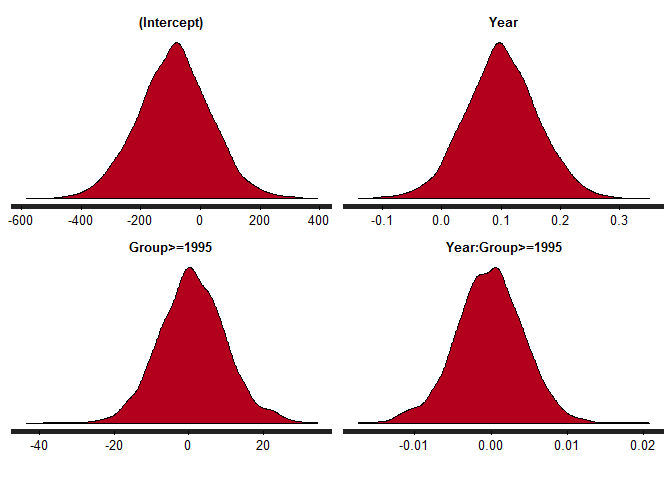
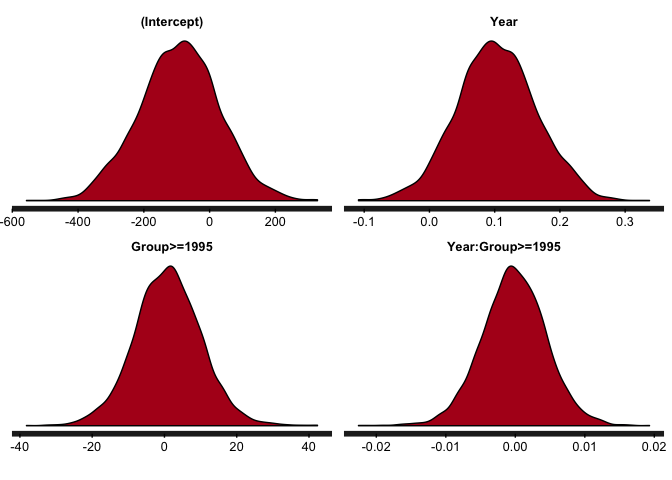
combined plot; tested priors on the BF calcs.

diff --git a/analysis.md b/analysis.md
@@ -1,7 +1,7 @@
 Technical comment on Evidence for a limit to human lifespan
 ================
 Philipp Berens and Tom Wallis
-October 9, 2016
+October 11, 2016
 
 Dong et al. claim to present statistical evidence in favor of an absolute limit to the human lifespan. Here we present a reanalysis of a central figure in their paper showing that in fact the data is uninformative with regards to the question whether there is a limit to human lifespan or not.
 
@@ -96,6 +96,41 @@ summary.lm(mdl2)
 
 In this case, MRAD increases slightly by 0.12 years per year.
 
+Showing the models side-by-side
+-------------------------------
+
+``` r
+# prepare data:
+tmp1 <- tbl
+tmp2 <- tbl
+tmp1$model <- "Trend break"
+tmp1$yhat <- predict(mdl1)
+tmp2$model <- "Linear"
+tmp2$yhat <- predict(mdl2)
+
+combined_data <- rbind(tmp1, tmp2)
+
+plt <- ggplot(combined_data, aes(x = Year, y = Age, colour = Group)) + 
+  facet_grid(~ model) + 
+  geom_point() +
+  geom_line(aes(y = yhat))
+
+# appearance:
+plt <- plt + 
+  scale_y_continuous(name = "Yearly maximum reported age at death (years)",
+                     breaks = seq(110, 126, by = 2)) + 
+  ylab("Yearly maximum reported age at death (years)") +
+  theme_minimal(base_size = 8) + 
+  theme(panel.grid.major = element_line(colour = "grey90", size = 0.6)) + 
+  theme(panel.margin = unit(2, "lines")) + 
+  scale_color_manual(values = c("#4A87CB", "#E76826"), name = "") + 
+  theme(legend.position = "bottom")
+
+plt
+```
+
+![](analysis_files/figure-markdown_github/combined_plot-1.png)
+
 Model comparison
 ----------------
 
@@ -174,7 +209,7 @@ bf1 / bf2
 
     ## Bayes factor analysis
     ## --------------
-    ## [1] Year * Group : 1.263247 ±0.52%
+    ## [1] Year * Group : 1.248852 ±0.56%
     ## 
     ## Against denominator:
     ##   Age ~ Year 
@@ -182,6 +217,8 @@ bf1 / bf2
     ## Bayes factor type: BFlinearModel, JZS
 
 Under these default priors (assuming for example that both models are equally likely *a priori*), the models receive approximately equal support from the data (the Dong et al model is favoured with an odds ratio of 1.24-to-1).
+
+Changing the priors of BayesFactor from "medium" to "ultrawide" on the standardised effect size scale did not appreciably affect these conclusions; with ultrawide effect-size priors the simpler model is now preferred with odds of 1.09-to-1.
 
 ### Bayesian estimation of model parameters
 
@@ -192,6 +229,7 @@ We fit the models using the package `rstanarm`, which allows relatively straight
 ``` r
 bmdl <- stan_glm(Age~Year*Group, tbl, 
                  prior = student_t(5, 0, 2.5), 
+                 prior_intercept = student_t(5, 0, 50),
                  family = gaussian(), 
                  adapt_delta = 0.99)
 ```
@@ -211,9 +249,9 @@ bmdl <- stan_glm(Age~Year*Group, tbl,
     ## Chain 1, Iteration: 1600 / 2000 [ 80%]  (Sampling)
     ## Chain 1, Iteration: 1800 / 2000 [ 90%]  (Sampling)
     ## Chain 1, Iteration: 2000 / 2000 [100%]  (Sampling)
-    ##  Elapsed Time: 0.852846 seconds (Warm-up)
-    ##                0.913335 seconds (Sampling)
-    ##                1.76618 seconds (Total)
+    ##  Elapsed Time: 0.90537 seconds (Warm-up)
+    ##                0.912955 seconds (Sampling)
+    ##                1.81832 seconds (Total)
     ## 
     ## 
     ## SAMPLING FOR MODEL 'continuous' NOW (CHAIN 2).
@@ -230,9 +268,9 @@ bmdl <- stan_glm(Age~Year*Group, tbl,
     ## Chain 2, Iteration: 1600 / 2000 [ 80%]  (Sampling)
     ## Chain 2, Iteration: 1800 / 2000 [ 90%]  (Sampling)
     ## Chain 2, Iteration: 2000 / 2000 [100%]  (Sampling)
-    ##  Elapsed Time: 1.01437 seconds (Warm-up)
-    ##                1.08593 seconds (Sampling)
-    ##                2.1003 seconds (Total)
+    ##  Elapsed Time: 1.114 seconds (Warm-up)
+    ##                1.09402 seconds (Sampling)
+    ##                2.20802 seconds (Total)
     ## 
     ## 
     ## SAMPLING FOR MODEL 'continuous' NOW (CHAIN 3).
@@ -249,9 +287,9 @@ bmdl <- stan_glm(Age~Year*Group, tbl,
     ## Chain 3, Iteration: 1600 / 2000 [ 80%]  (Sampling)
     ## Chain 3, Iteration: 1800 / 2000 [ 90%]  (Sampling)
     ## Chain 3, Iteration: 2000 / 2000 [100%]  (Sampling)
-    ##  Elapsed Time: 1.00501 seconds (Warm-up)
-    ##                0.979985 seconds (Sampling)
-    ##                1.98499 seconds (Total)
+    ##  Elapsed Time: 0.895852 seconds (Warm-up)
+    ##                0.843992 seconds (Sampling)
+    ##                1.73984 seconds (Total)
     ## 
     ## 
     ## SAMPLING FOR MODEL 'continuous' NOW (CHAIN 4).
@@ -268,9 +306,9 @@ bmdl <- stan_glm(Age~Year*Group, tbl,
     ## Chain 4, Iteration: 1600 / 2000 [ 80%]  (Sampling)
     ## Chain 4, Iteration: 1800 / 2000 [ 90%]  (Sampling)
     ## Chain 4, Iteration: 2000 / 2000 [100%]  (Sampling)
-    ##  Elapsed Time: 1.03229 seconds (Warm-up)
-    ##                0.903942 seconds (Sampling)
-    ##                1.93624 seconds (Total)
+    ##  Elapsed Time: 0.949839 seconds (Warm-up)
+    ##                0.918062 seconds (Sampling)
+    ##                1.8679 seconds (Total)
 
 We can summarize the fitted model and plot the posterior density over the parameters:
 
@@ -278,20 +316,21 @@ We can summarize the fitted model and plot the posterior density over the parame
 plot(bmdl,'dens')
 ```
 
-![](analysis_files/figure-markdown_github/unnamed-chunk-8-1.png)
+![](analysis_files/figure-markdown_github/unnamed-chunk-7-1.png)
 
 ``` r
 bmdl
 ```
 
     ## stan_glm(formula = Age ~ Year * Group, family = gaussian(), data = tbl, 
-    ##     prior = student_t(5, 0, 2.5), adapt_delta = 0.99)
+    ##     prior = student_t(5, 0, 2.5), prior_intercept = student_t(5, 
+    ##         0, 50), adapt_delta = 0.99)
     ## 
     ## Estimates:
     ##                  Median MAD_SD
-    ## (Intercept)      -91.5  124.3 
+    ## (Intercept)      -89.7  120.0 
     ## Year               0.1    0.1 
-    ## Group>=1995        0.8    8.7 
+    ## Group>=1995        0.9    8.9 
     ## Year:Group>=1995   0.0    0.0 
     ## sigma              2.2    0.3 
     ## 
@@ -302,7 +341,7 @@ bmdl
     ## 
     ## Observations: 33  Number of unconstrained parameters: 5
 
-Comparing the fitted model to the frequentist models above shows that the posterior median of the linear effect of Year (0.103) is similar to the estimated value above (0.153), but shrunken towards zero by the prior. The posterior density on the interaction term is centered around zero during inference, arguing that there is little evidence of a different slope after 1995. There is a small effect of the interaction term on the y-intercept, increasing the estimated y-intercept by 900. This is likely an artefact of the model parametrization.
+Comparing the fitted model to the frequentist models above shows that the posterior median of the linear effect of Year (0.102) is similar to the estimated value above (0.153), but shrunken towards zero by the prior. The posterior density on the interaction term is centered around zero during inference, arguing that there is little evidence of a different slope after 1995. There is a small effect of the interaction term on the y-intercept, increasing the estimated y-intercept by 900. This is likely an artefact of the model parametrization.
 
 ``` r
 draws <- as.data.frame(as.matrix(bmdl))
@@ -328,7 +367,7 @@ base +
   geom_line(data=tbl2,mapping = aes(x=Year, y=Pred),size=1.1)
 ```
 
-![](analysis_files/figure-markdown_github/unnamed-chunk-9-1.png)
+![](analysis_files/figure-markdown_github/unnamed-chunk-8-1.png)
 
 We check certain properties of the Bayesian fitting procedures graphically:
 
@@ -336,9 +375,7 @@ We check certain properties of the Bayesian fitting procedures graphically:
 stan_diag(bmdl)
 ```
 
-    ## Warning: Removed 1 rows containing missing values (geom_bar).
-
-![](analysis_files/figure-markdown_github/unnamed-chunk-10-1.png)
+![](analysis_files/figure-markdown_github/unnamed-chunk-9-1.png)
 
 Extended data figure
 --------------------
@@ -384,7 +421,7 @@ The fitted model has a slope of 0.121 years for years before 1995 (their slope =
 
     ## Bayes factor analysis
     ## --------------
-    ## [1] Year * Group : 9.006163 ±1.05%
+    ## [1] Year * Group : 8.957058 ±1.11%
     ## 
     ## Against denominator:
     ##   Age ~ Year 
